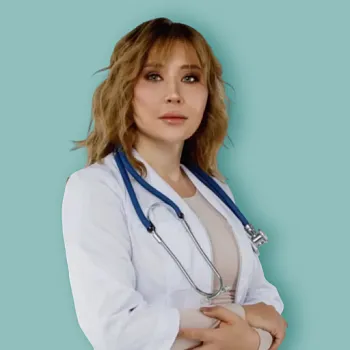
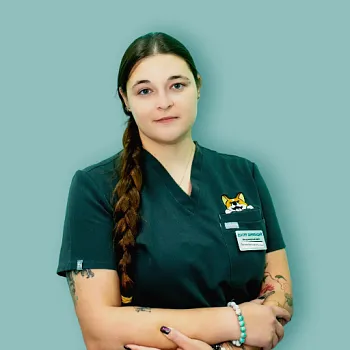
Service accordions from site texts, fix doctor photo mapping, add Bokovenko

diff --git a/app.js b/app.js
@@ -6,6 +6,7 @@ const SVC=[
 ['exot','Экзотолог, ратолог, герпетолог','🦎','exo'],['stoma','Стоматология','🦷','spec'],['nevro','Неврология','🧠','spec'],
 ['nefro','Нефрология','💧','spec'],['oftalm','Офтальмология','👁','spec'],['ornito','Орнитология','🦜','exo'],['pulmo','Пульмонология','🫁','spec']];
 const DOCS=[
+['bokovenko','Боковенко Дарья Дмитриевна','Кардиолог, специалист визуальной диагностики','10 лет','Главный врач'],
 ['kramar','Крамарь Николай Николаевич','Хирург, травматолог-ортопед, эндоскопист','10 лет','Главный врач'],
 ['fadeeva','Фадеева Ирина Геннадьевна','Терапевт, эндокринолог','10 лет','Зав. терапевтическим отделением'],
 ['mayer','Майер Татьяна Юрьевна','Хирург, ортопед, эндоскопия, неврология','17 лет'],
@@ -33,12 +34,21 @@ const DOCS=[
 const $=s=>document.querySelector(s);
 // services
 const grid=$('#svcGrid');
-function drawSvc(f){grid.innerHTML=SVC.filter(s=>f==='all'||s[3].split(' ').includes(f)).map(s=>`<div class="svc" data-s="${s[0]}"><img loading="lazy" src="img/svc/${s[0]}.webp" alt="${s[1]}"><div><i>${s[2]}</i><b>${s[1]}</b></div></div>`).join('')}
+function drawSvc(f){grid.innerHTML=SVC.filter(s=>f==='all'||s[3].split(' ').includes(f)).map(s=>`<div class="svc" data-s="${s[0]}"><img loading="lazy" src="img/svc/${s[0]}.webp" alt="${s[1]}"><div><i>${s[2]}</i><b>${s[1]}</b><u class="arr">›</u></div></div>`).join('')}
 drawSvc('all');
 $('#svcFilter').addEventListener('click',e=>{const b=e.target.closest('button');if(!b)return;document.querySelectorAll('#svcFilter button').forEach(x=>x.classList.toggle('on',x===b));drawSvc(b.dataset.f)});
+let SVCD=null;fetch('svc.json').then(r=>r.json()).then(j=>SVCD=j).catch(()=>{});
+const esc=x=>x.replace(/[<>&]/g,c=>({'<':'&lt;','>':'&gt;','&':'&amp;'}[c]));
+function blk(items){let h='',ul=[];const fl=()=>{if(ul.length){h+='<ul>'+ul.map(x=>'<li>'+esc(x)+'</li>').join('')+'</ul>';ul=[]}};items.forEach(([t,x])=>{if(t==='li')ul.push(x);else{fl();h+='<p>'+esc(x)+'</p>'}});fl();return h}
+const GEN={exot:1,ornito:1,uzi:1};
 grid.addEventListener('click',e=>{const c=e.target.closest('.svc');if(!c)return;const s=SVC.find(x=>x[0]===c.dataset.s);
- const m=document.createElement('div');m.className='modal';m.innerHTML=`<div class="sheet"><img src="img/svc/${s[0]}.webp" alt=""><h3>${s[2]} ${s[1]}</h3><p>Запишитесь онлайн или позвоните, и администратор подберет удобное время и специалиста.</p><button class="btn primary wide" data-go>Записаться на эту услугу</button><a class="btn ghost" href="tel:+74953749911">Позвонить</a></div>`;
- m.addEventListener('click',ev=>{if(ev.target===m)m.remove();if(ev.target.closest('[data-go]')){$('#bSvc').value=s[1];m.remove();$('#booking').scrollIntoView()}});document.body.appendChild(m)});
+ const site=(SVCD&&SVCD[s[0]])||[];
+ const acc=site.map((b,i)=>`<details ${i===0?'open':''}><summary>${esc(b[0])}</summary><div class="acc">${blk(b[1])}</div></details>`).join('')+
+ `<details><summary>Как проходит визит</summary><div class="acc"><ul><li>Врач расспросит Вас о самочувствии, питании и прививках питомца</li><li>Проведет осмотр и при необходимости назначит диагностику: анализы, УЗИ и другое</li><li>Объяснит диагноз и план лечения, ответит на вопросы на любом этапе</li><li>Все данные визита сохранятся в электронной карте питомца</li></ul></div></details>`+
+ `<details><summary>Как подготовиться (общие рекомендации)</summary><div class="acc"><ul><li>Возьмите ветпаспорт и результаты прошлых анализов, выписки</li><li>Запишите, какие симптомы и с какого времени Вы заметили, что питомец ел и пил</li><li>Кошек и мелких животных везите в переноске, собак на поводке</li><li>Если возможны анализы или процедура под наркозом, уточните при записи, нужно ли не кормить питомца</li></ul><p class="gen">Это общие советы. Точную подготовку для Вашего случая подскажет администратор или врач.</p></div></details>`+
+ `<details><summary>Каких животных принимаем</summary><div class="acc"><p>${GEN[s[0]]?'Кроме кошек и собак, этим направлением занимаются врачи, которые принимают экзотических животных и птиц.':'Кошки и собаки. Экзотических животных и птиц принимают профильные специалисты: экзотолог, герпетолог, орнитолог.'}</p></div></details>`;
+ const m=document.createElement('div');m.className='modal';m.innerHTML=`<div class="sheet"><button class="x" aria-label="Закрыть">×</button><img src="img/svc/${s[0]}.webp" alt=""><h3>${s[2]} ${s[1]}</h3><div class="accs">${acc}</div><div class="acts"><button class="btn primary" data-go>Записаться</button><a class="btn ghost" href="tel:+74953749911">Позвонить</a></div><p class="gen">Описание по материалам сайта клиники boni-vet.ru.</p></div>`;
+ m.addEventListener('click',ev=>{if(ev.target===m||ev.target.closest('.x'))return m.remove();if(ev.target.closest('[data-go]')){$('#bSvc').value=s[1];m.remove();$('#booking').scrollIntoView()}});document.body.appendChild(m)});
 // doctors
 const docs=$('#docs');
 docs.innerHTML=DOCS.map(d=>`<div class="doc"><img loading="lazy" src="img/doc/${d[0]}.webp" alt="${d[1]}"><div>${d[4]?`<div class="pos">${d[4]}</div>`:''}<b>${d[1]}</b><span>${d[2]}</span>${d[3]?`<em class="xp">Стаж ${d[3]}</em>`:''}<em class="more" style="display:block;font-style:normal;font-size:12px;font-weight:800;color:var(--t);margin-top:6px">Подробнее →</em></div></div>`).join('');

diff --git a/style.css b/style.css
@@ -133,3 +133,8 @@ button.award{width:100%;border:0;text-align:left;font:inherit;color:inherit;curs
 .sheet .ico{font-size:40px}.sheet .gen{font-size:12px;color:#8aa0a3;margin-top:8px}
 .sheet{max-height:88vh;overflow-y:auto}.sheet .acts{display:grid;gap:8px;margin-top:16px}.sheet .acts .btn{margin:0;width:100%}
 .sheet .x{float:right;border:0;background:#eef4f4;border-radius:50%;width:34px;height:34px;font-size:18px;cursor:pointer}
+.svc .arr{margin-left:auto;text-decoration:none;color:var(--t);font-weight:800;font-size:18px}
+.accs details{border-bottom:1px solid #e6eeee}.accs summary{list-style:none;cursor:pointer;font-weight:800;padding:13px 26px 13px 0;position:relative;font-size:15.5px}
+.accs summary::-webkit-details-marker{display:none}.accs summary::after{content:'+';position:absolute;right:4px;top:10px;font-size:20px;color:var(--t)}
+.accs details[open] summary::after{content:'–'}.acc{padding:0 0 12px;color:var(--mu);font-size:14.5px}.acc p{margin:0 0 8px}.acc ul{margin:0 0 8px 18px}.acc li{margin:3px 0}
+.modal .sheet p.gen{margin:8px 0 0}
